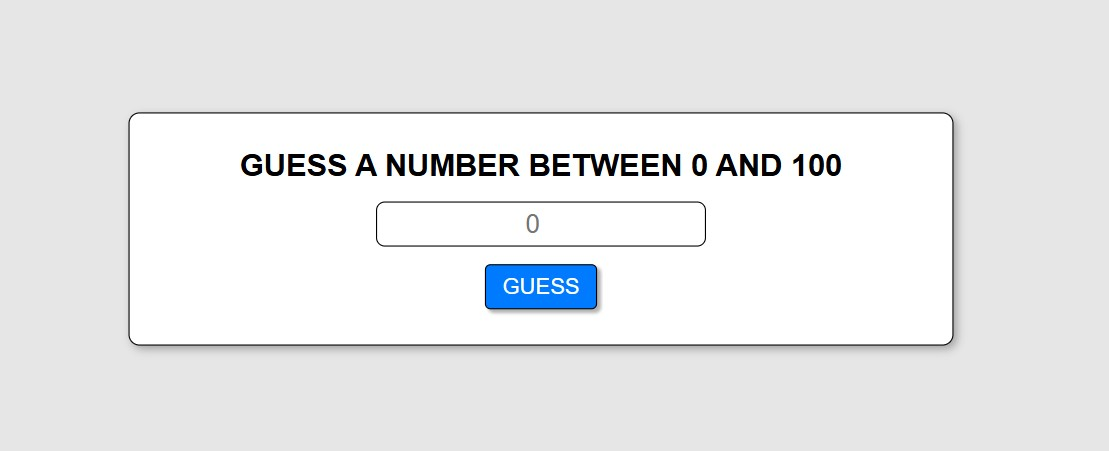
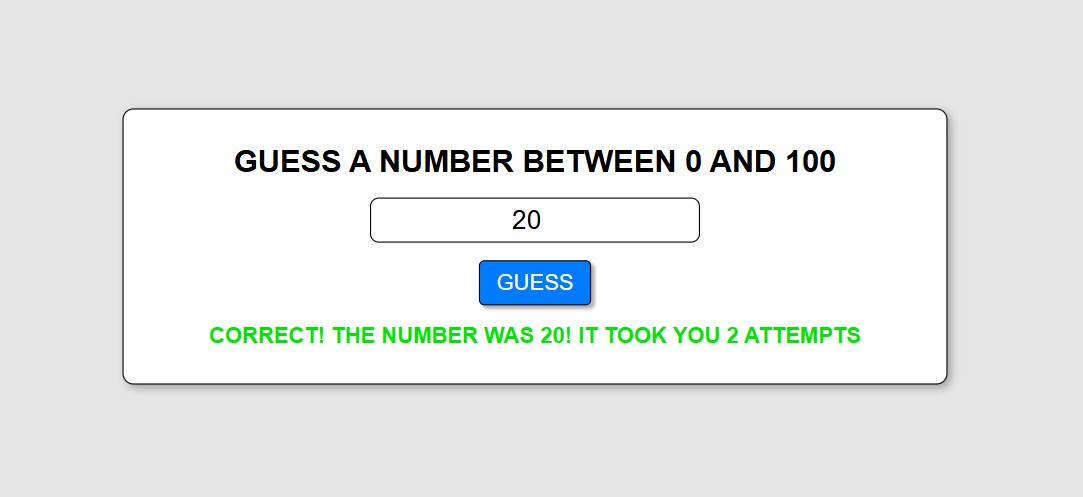
Updated screenshot in README

Changed region(s): [[0.0914, 0.2173, 0.8837, 0.8071]]

diff --git a/assets/js/script.js b/assets/js/script.js
@@ -16,7 +16,7 @@ minNumDisplay.textContent = minNum;
 maxNumDisplay.textContent = maxNum;
 
 // Get a random number
-const randomNumber = Math.floor(Math.random() * (maxNum - minNum + 1)) + minNum;
+const randomNumber = 20;
 
 function submit() {
   guess = inputField.value;
